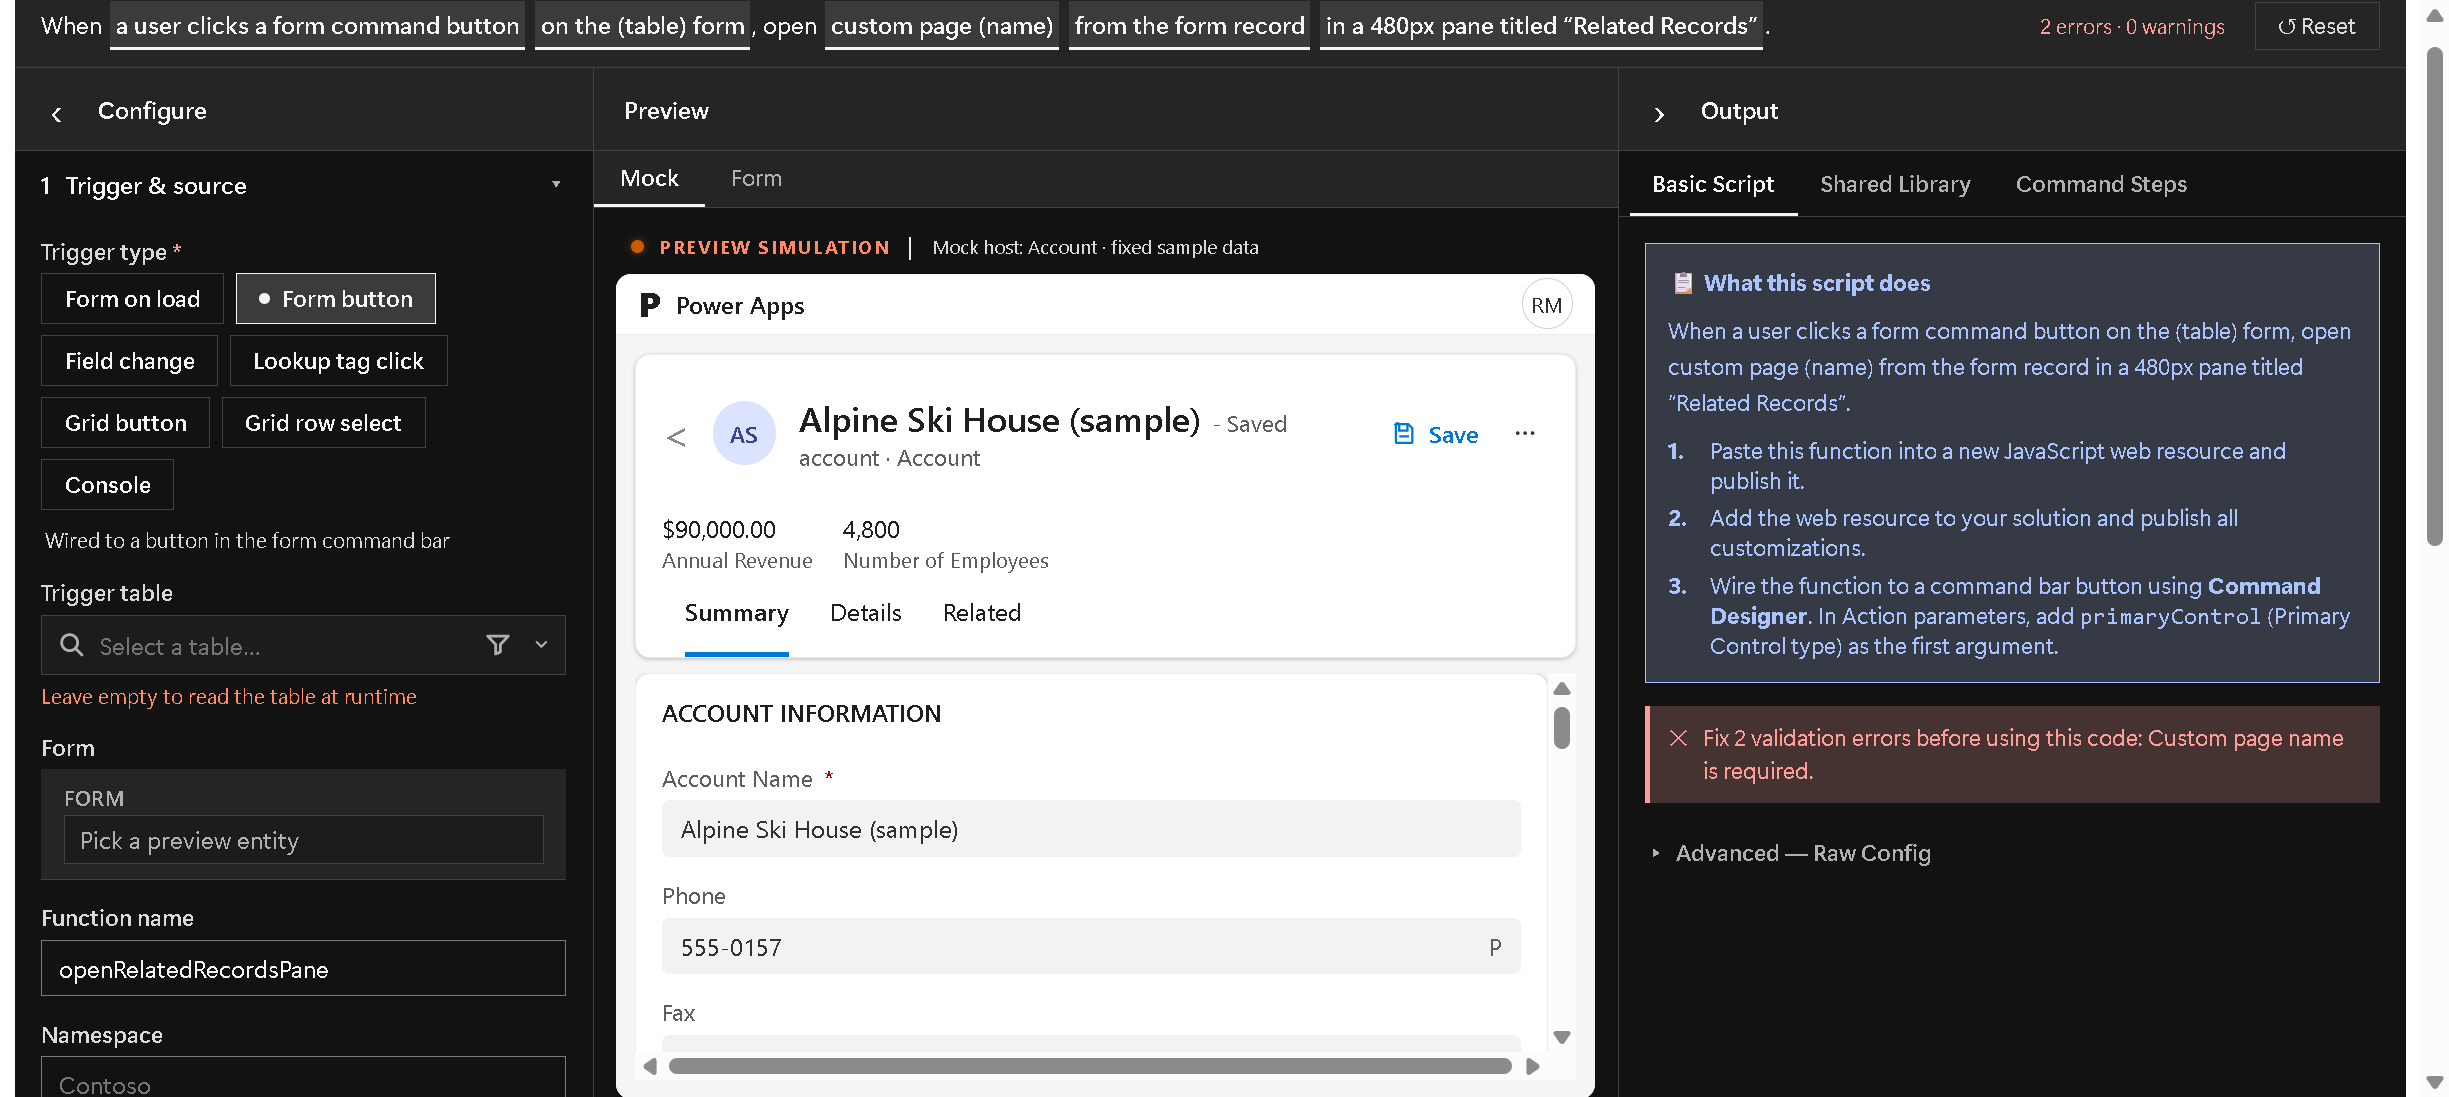
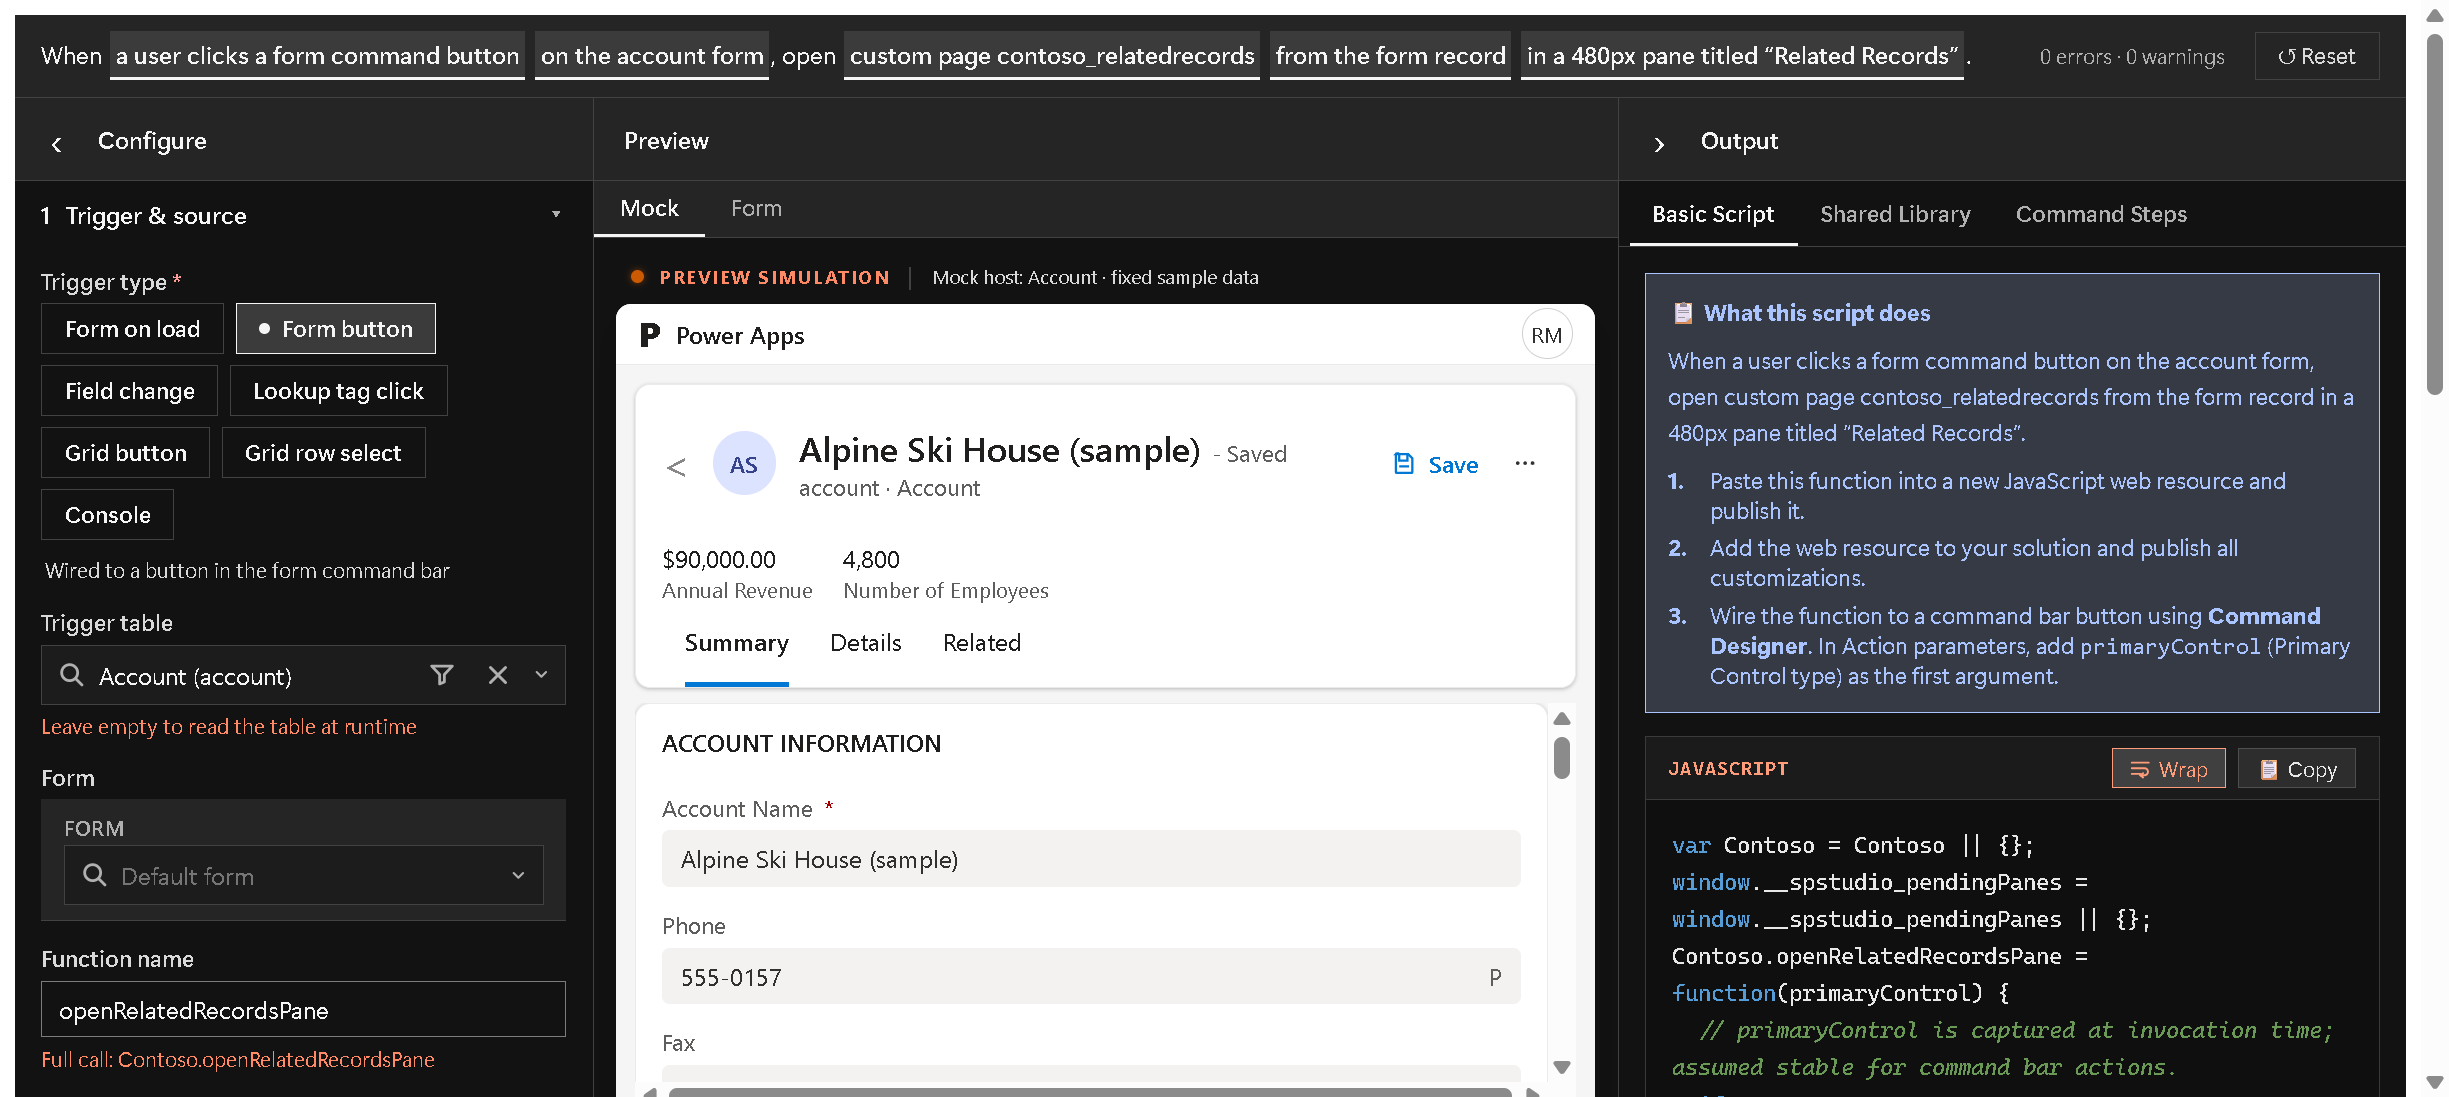
Document Side Pane Studio workbench usage
Add visual workbench documentation with screenshots and usage guidance.
Clarify Basic Script output versus Command Steps trigger wiring, and document configuration, previews, supported content types, and code deployment.

diff --git a/documentation/usage.md b/documentation/usage.md
@@ -28,6 +28,8 @@ view or page again also confirms it, as does **Reset**.
 Open **Trigger & source** in the Configure panel. Choose **Trigger type** first;
 every other choice on the panel is limited to what that trigger can do.
 
+![The Configure panel's Trigger & source section — trigger type, trigger table, form, function name, and namespace](images/configure-trigger-source.png)
+
 - **Form on load** - opens the pane when a record form loads.
 - **Form button** - wires the pane to a form command bar button.
 - **Field change** - registers a column change handler.
@@ -61,6 +63,8 @@ calls `preventDefault()` synchronously and reads the clicked tag with
 ## 3. Choose what opens and which record
 
 Open **Destination**. Choose the **Content type**:
+
+![The Configure panel's Destination section — content type, custom page name, record source, and variable name](images/configure-destination.png)
 
 - **Custom page** - opens a custom page from the current solution.
 - **Generative page** - opens a page built by the app agent, by page ID.
@@ -107,6 +111,8 @@ ID** is reported as missing until you enter one.
 
 Open **Pane & behaviour**:
 
+![The Configure panel's Pane & behaviour section — pane ID, title, icon, width, header options, and the Advanced behaviour controls](images/configure-pane-behaviour.png)
+
 - **Unique pane ID**, **Pane title**, **Tab icon**, and **Width**
 - **Show close button** and **Hide header bar**
 - **Advanced**: **Open in foreground (isSelected)**, **Keep loaded when
@@ -139,6 +145,10 @@ code.
 
 Use the preview area before copying code:
 
+![Mock preview — the pane title, header, and width against a fixed Account sample](images/preview-mock.png)
+
+![Form preview — a form layout driven by the configured trigger table](images/preview-form.png)
+
 1. Open the mock preview to check pane layout, title, width, and behavior.
 2. Use the form preview when connected metadata and form XML are available.
 3. Adjust configuration until the pane looks correct for the target app.
@@ -153,12 +163,16 @@ code in the target model-driven app before shipping.
 
 ## 7. Generate and Deploy Code
 
+![Basic Script output — the generated JavaScript in the Output panel](images/output-basic-script.png)
+
 1. Open the Output panel.
 2. Review validation messages and fix required fields.
 3. Copy the generated JavaScript.
 4. Add the code to the appropriate web resource or command action.
 5. Publish the solution customizations.
 6. Test the trigger in the model-driven app.
+
+![Command Steps output — the function name and the Command Designer wiring checklist](images/command-steps.png)
 
 For quick experiments, use the **Console** trigger and paste the
 generated code into the browser developer console while the model-driven app is

diff --git a/documentation/user-manual.md b/documentation/user-manual.md
@@ -94,6 +94,8 @@ Expected output: the summary strip reads “2 errors · 0 warnings”, and **Bas
 
 **Objective**: the script is shaped for a form command-bar button on the table you are designing for.
 
+![Trigger & source — trigger type, trigger table, form, function name, and namespace](images/configure-trigger-source.png)
+
 **Actions**:
 
 1. In **Configure**, open **Trigger & source**.
@@ -132,6 +134,8 @@ Expected output: the summary strip reads “1 error · 0 warnings”, and the **
 
 **Objective**: the custom page opens, and it receives the record that is open on the form.
 
+![Destination — content type, custom page name, record source, and variable name](images/configure-destination.png)
+
 **Actions**:
 
 1. Open **Destination**.
@@ -169,6 +173,8 @@ Expected output: the summary strip reads “0 errors · 0 warnings”, **Basic S
 ## Step 6: Set the pane title, icon, and width
 
 **Objective**: the pane’s label and size match the app you are designing.
+
+![Pane & behaviour — pane ID, title, icon, width, and the Advanced behaviour controls](images/configure-pane-behaviour.png)
 
 **Actions**:
 
@@ -223,6 +229,10 @@ Expected output: zero validation errors on the Output panel. Warnings, if you tu
 ## Step 8: Preview the pane
 
 **Objective**: the preview matches the title and width you set.
+
+![Mock preview — pane title, header, and width against a fixed Account sample](images/preview-mock.png)
+
+![Form preview — a form layout driven by the configured trigger table](images/preview-form.png)
 
 **Actions**:
 

diff --git a/README.md b/README.md
@@ -6,6 +6,8 @@ lets makers configure a pane without hand-writing JavaScript, previews the
 result, and generates the code needed to open the pane from a form, grid,
 command bar button, field change, or manual script.
 
+![Side Pane Studio workbench — the Configure panel (left), the Mock preview of a 480 px "Related Records" pane (center), and the generated Basic Script output (right)](documentation/images/workbench-overview.png)
+
 ## What It Builds
 
 Side panes can target:
@@ -43,6 +45,13 @@ tag, lookup record, specific record, or no record.
   the runtime from the Output panel, publish it as
   `spstudio_/scripts/sidepane.runtime.js`, and load it before the handler.
 - **Command Steps** provides deployment and trigger-wiring instructions.
+
+The generated **Basic Script** is self-contained JavaScript. The **Command
+Steps** tab lists the trigger-wiring checklist for your current trigger.
+
+![Basic Script output — the "What this script does" summary and the generated JavaScript](documentation/images/output-basic-script.png)
+
+![Command Steps output — the function name and the Command Designer wiring checklist](documentation/images/command-steps.png)
 
 The Configure panel reads the configuration as a sentence above **Trigger &
 source**, **Destination**, and **Pane & behaviour**. It offers seven triggers:
